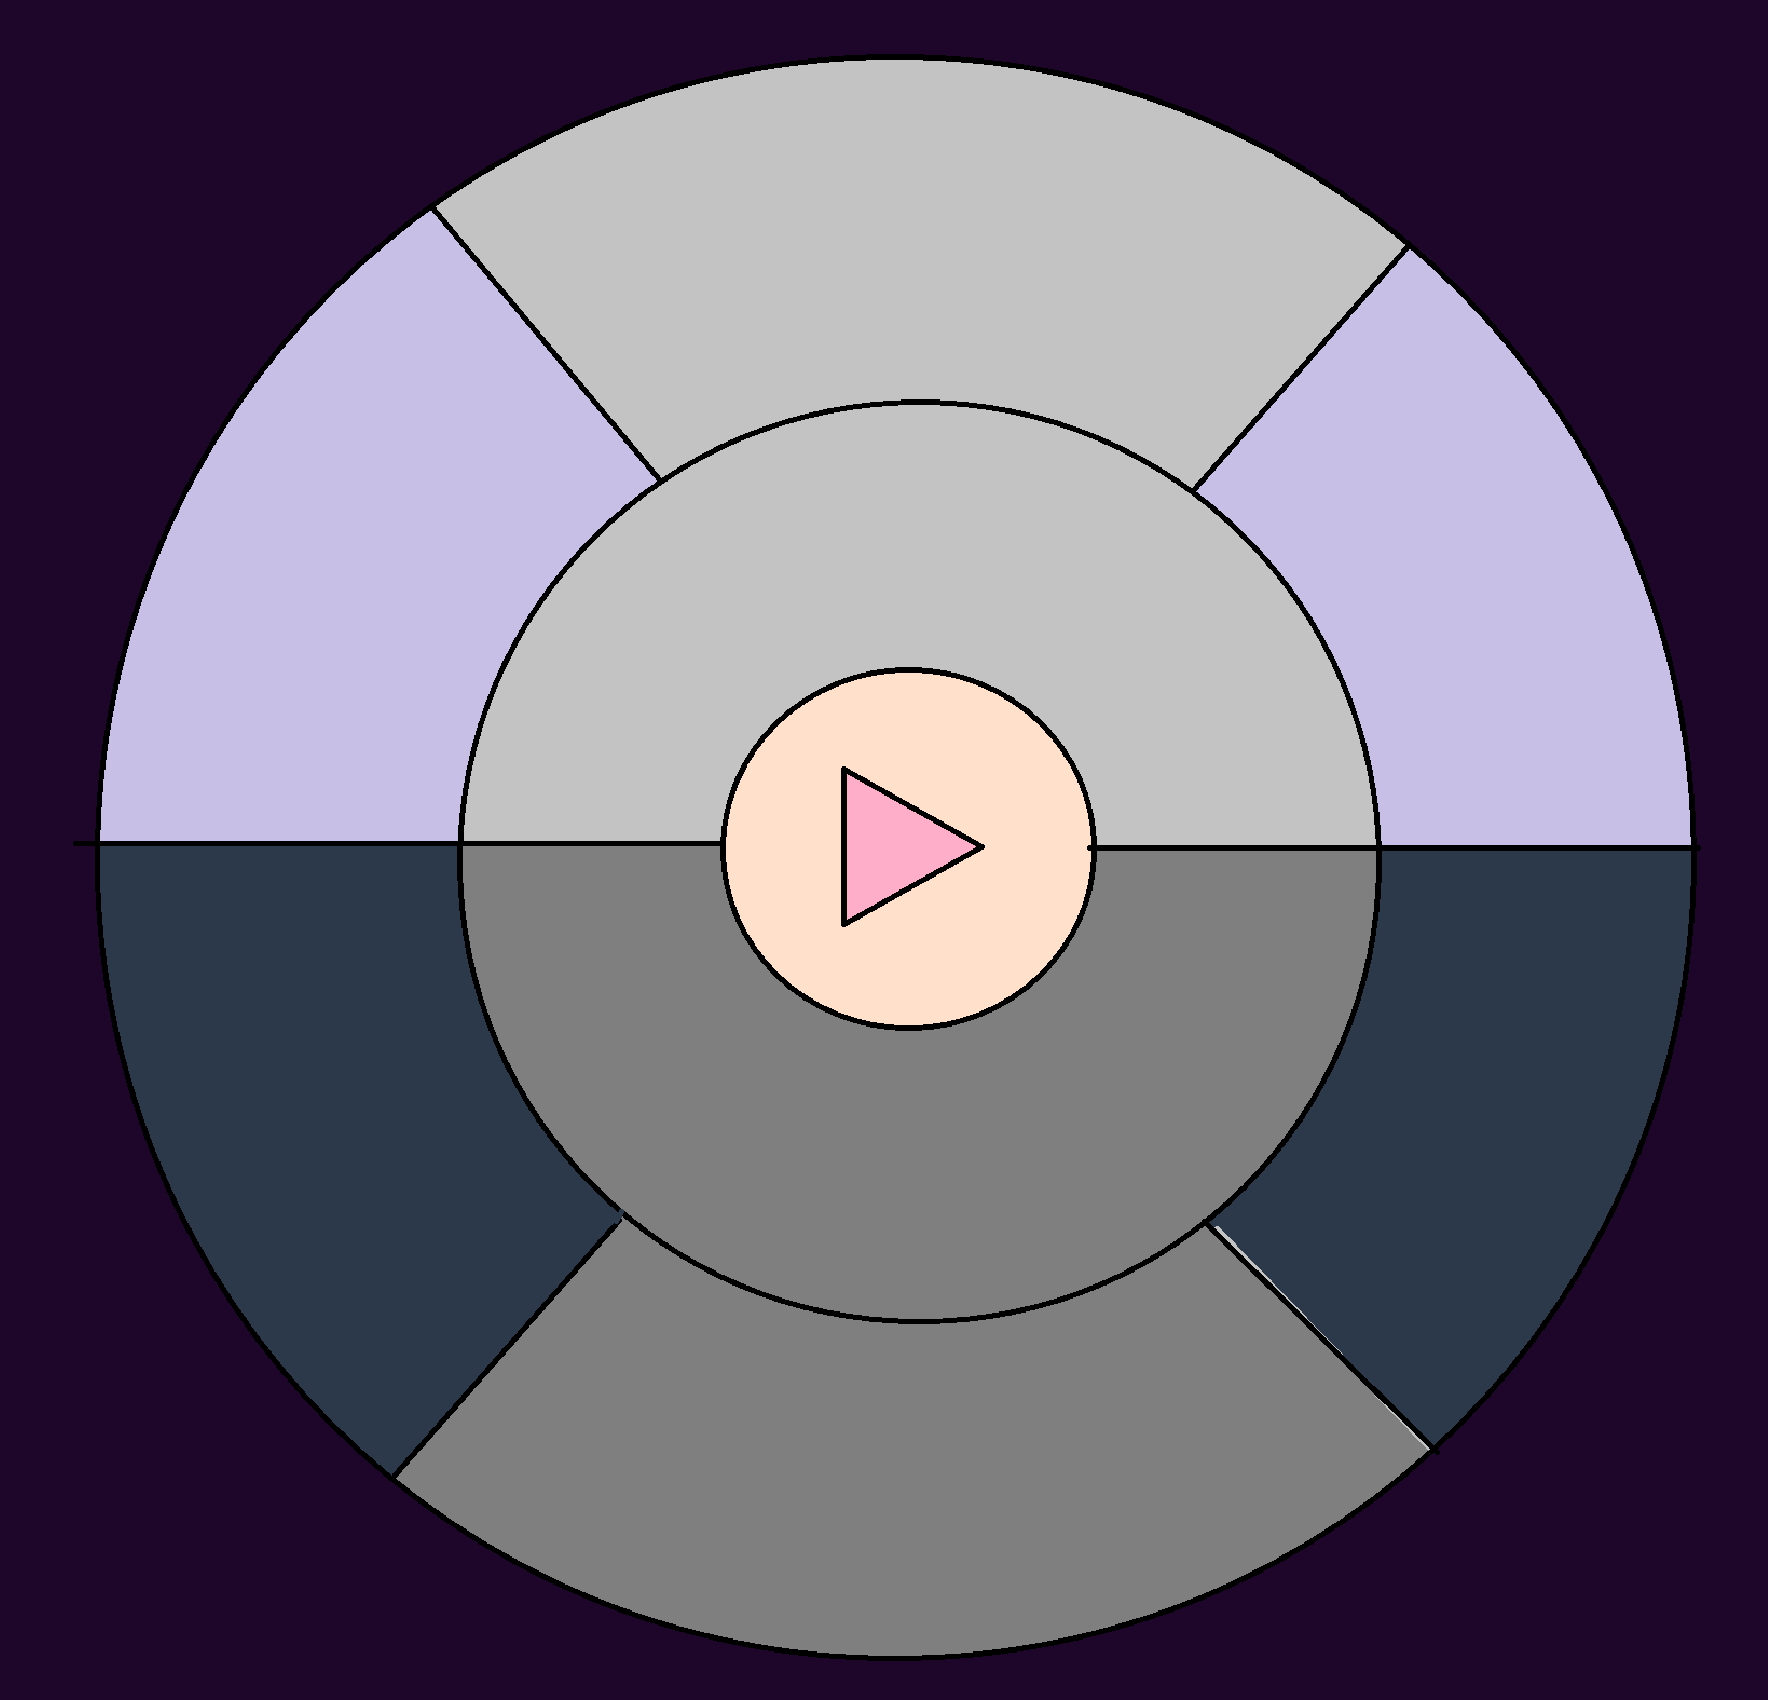
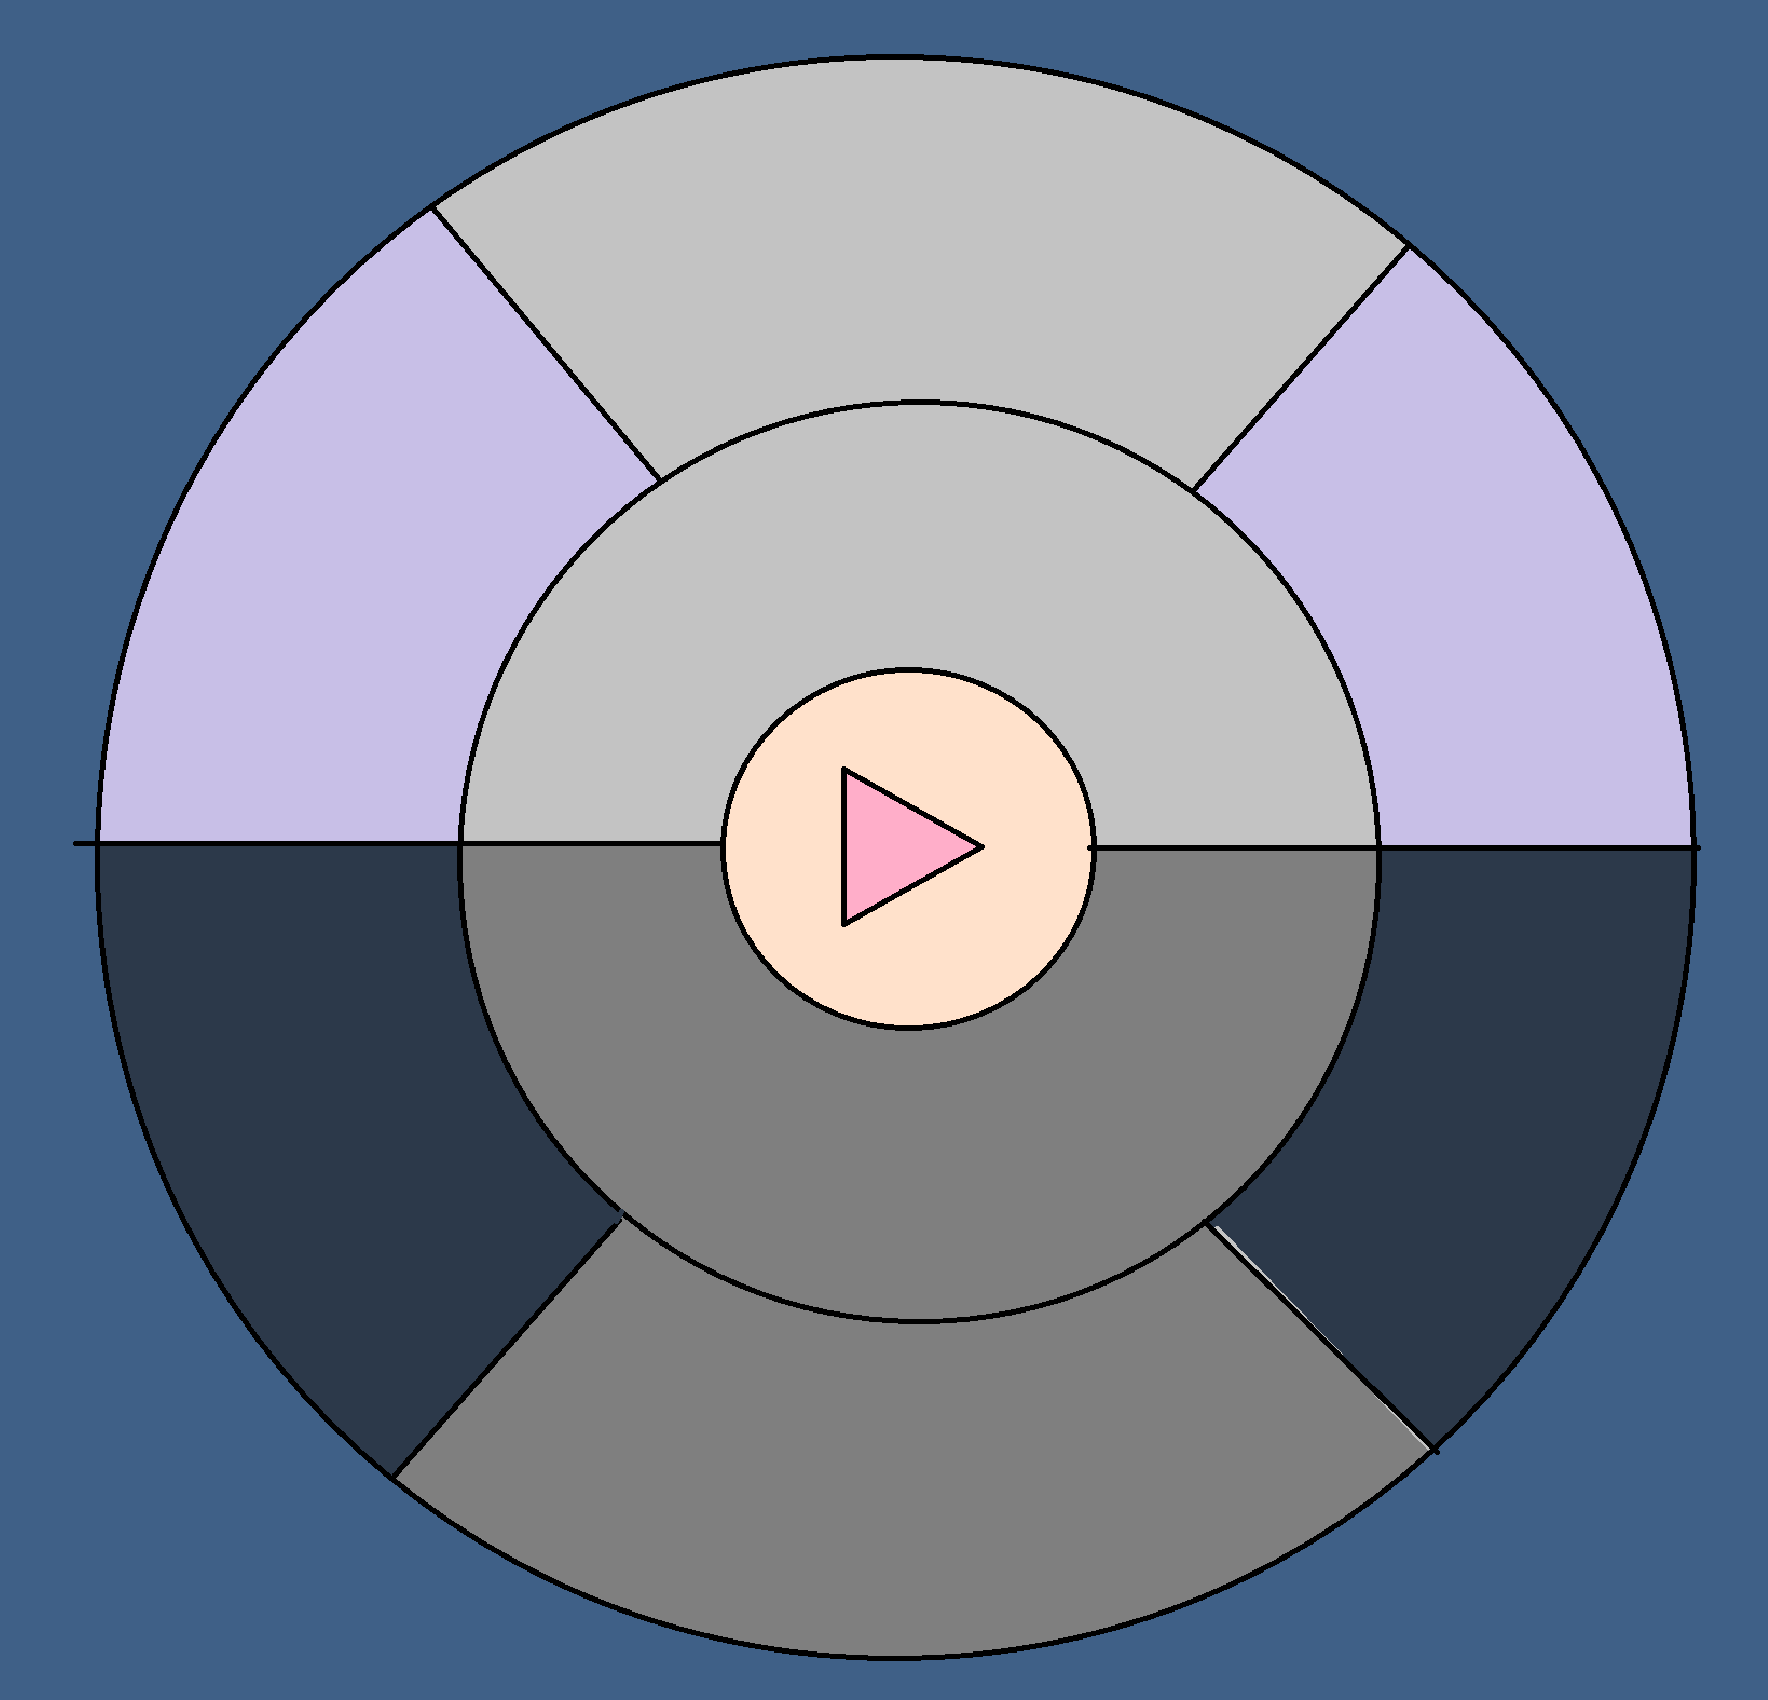
Add files via upload

diff --git a/fonkiu style.css b/fonkiu style.css
@@ -1,6 +1,7 @@
 @import url('https://fonts.googleapis.com/css2?family=Noto+Sans:ital,wght@0,100;0,200;0,300;1,100&display=swap');
 @import url('https://fonts.googleapis.com/css2?family=Noto+Sans:ital,wght@0,100;0,200;0,300;1,100&family=Poppins:wght@400;500&display=swap');
 @import url('https://fonts.googleapis.com/css2?family=Noto+Sans:ital,wght@0,100;0,200;0,300;1,100&family=Poppins:wght@400;500&family=Roboto+Slab&display=swap');
+@import url('https://fonts.googleapis.com/css2?family=Nunito:ital,wght@0,200;0,300;0,700;1,600;1,700&display=swap');
 :root {
     --bosque: #309221 ;
     --bosque2:#45B035;
@@ -38,16 +39,17 @@ body{
     /* margin: 0px;
     padding: 0px; */
 
-    background-image: url(telarana.jpg);
+    /* background-image: url(telarana.jpg);
     background-image: url(telarana\ 2.jpg);
 
     background-image: url(perlas.jpg);
     background-position: top;
 
-    background-size: cover;
+    background-size: cover; */
     background-color: rgb(218, 186, 186);
     ;
     /* filter: hue-rotate(90deg); */
+    background: radial-gradient(circle, rgba(238,174,202,1) 0%, rgba(63,96,135,1) 100%);
 }
 #wrapper{
 
@@ -58,7 +60,7 @@ body{
 .grid{
 
 margin: 0 ;
-background-color: rgba(173, 120, 120, 0.37);
+/* background-color: rgba(173, 120, 120, 0.37); */
 width: 50 rem;
 height: 50 rem;
 
@@ -70,7 +72,7 @@ grid-template-rows: 1fr;
 justify-items: center;
 align-items: center;
 border-radius: 50%;
-box-shadow:2rem 4rem rgba(88, 41, 41, 0.511) ;
+/* box-shadow:1rem 1rem rgba(88, 41, 41, 0.511) ; */
 transition: all  1s ease-out;
 backdrop-filter: blur (50px);
 animation-name: appear;
@@ -797,7 +799,7 @@ h1 {
     animation-direction: alternate;  
 
  
-    animation-fill-mode: forwards;
+    /* animation-fill-mode: forwards; */
     animation-iteration-count: infinite;
 
 }
@@ -817,7 +819,9 @@ h1 p{
         
 
     
-    85%  {clip-path: circle(90%); }
+    85%  {clip-path: circle(90%); color: #590e7b;     text-shadow:  .15rem .15rem rgb(171, 151, 151);
+    scale: 1.1;
+    }
 
     100%  {clip-path: circle(100%); box-shadow: inset 0 .5rem 1rem #bf82bf;}
 }
@@ -839,16 +843,16 @@ a{
 }
 
 .escribe{
-    background: linear-gradient(90deg, rgba(30,6,43,0) 49%, rgba(30,6,43,1) 51%);
-    ;
+    background-color: rgba(0, 0, 0, 0.094);
     text-align: right;
     padding: 1.5rem;
     color: #9fcff7;
     font-size: 2rem;
     margin: 0;
     border-radius: 97% 3% 100% 0% / 0% 100% 0% 100% ;
-    text-shadow:  .5rem .5rem #00000065;
-    font-family: 'Roboto Slab', serif;
+    /* text-shadow:  .5rem .5rem #00000065; */
+    font-family: 'Nunito', sans-serif;
+    font-weight: 200;
     background-color: #00000065;
     backdrop-filter: blur (50px);
 
@@ -863,6 +867,7 @@ a{
     font-size: 1.5rem;
     font-family:'Trebuchet MS', 'Lucida Sans Unicode', 'Lucida Grande', 'Lucida Sans', Arial, sans-serif;
     margin-right: 3rem;
+    border-radius: 15%;
 
 
 }
@@ -872,25 +877,45 @@ a{
     align-items: center;
     justify-content: end;
     border-radius: 0% 100% 3% 97% / 100% 0% 100% 0% ;
-    background: linear-gradient(90deg, rgba(30,6,43,0) 9%, rgba(30,6,43,1) 51%);
-    box-shadow:1rem .5rem rgb(15, 1, 22) ;
+    background-color: rgba(0, 0, 0, 0.281);
+    box-shadow:1rem .5rem rgba(15, 1, 22, 0.203) ;
 
 
 }
 #editionGrid img{
     width: 8rem;
     border-radius: 50%;
-    border: .2rem solid  rgb(14, 6, 30);
-    margin-right: 3rem;
+    border: .2rem solid  rgba(63,96,135);
+    margin: 2rem;
+    margin-top: 1rem;
+    padding: 0;
 }
 
+
+#mapa39{
+    display: flex;
+    justify-content: center;
+    align-items: center;
+    margin-left: 1rem;
+    transition: all 1s ease;
+}
+#mapa39:hover{
+    transform: rotate(180deg);
+    filter: saturate(2.1);
+    margin-top: -3rem;
+
+    
+    
+}
 .enDesarrollo::before{
     content: "En desarrollo";
-    background-color: rgb(250, 250, 213);
+    background-color: rgb(161, 200, 247);
     font-size: .8rem;
     color: rgb(30, 29, 29);
     font-weight: bold;
+    padding: 0;
     margin-right: -3rem;
+    margin-bottom: 1rem;
 }
 footer{
     margin: 2rem;

diff --git a/index.html b/index.html
@@ -8,7 +8,7 @@
     <title> Fe, Fuego y Agua</title>
 </head>
 <body>
-    <audio id="audio" src="song.mp3" controls></audio>
+    <!-- <audio id="audio" src="song.mp3" controls></audio> -->
 <!-- <h1><p>FE,</p> <p>FUEGO </p> <p> Y AGUA.</p> </h1> -->
 <h1>FE, FUEGO <p>Y AGUA.</p> </h1>
 
@@ -133,7 +133,7 @@
 
     <p class="escribe" id="elige"> Elige un mapa:</p>
     <div class="enDesarrollo"><img src="Estructura 2-6.png" alt="estructuras" ></div> 
-    <div> <a href="mapa 3-9.html"> <img src="Estructura 3-9.png" alt="estructuras"></a></div>
+    <div id="mapa39" > <a  href="mapa 3-9.html"> <img src="Estructura 3-9.png" alt="estructuras"></a></div>
     <div class="enDesarrollo"><img src="Estructura 3-6.png" alt="estructuras" ></div>
 
 </div>
